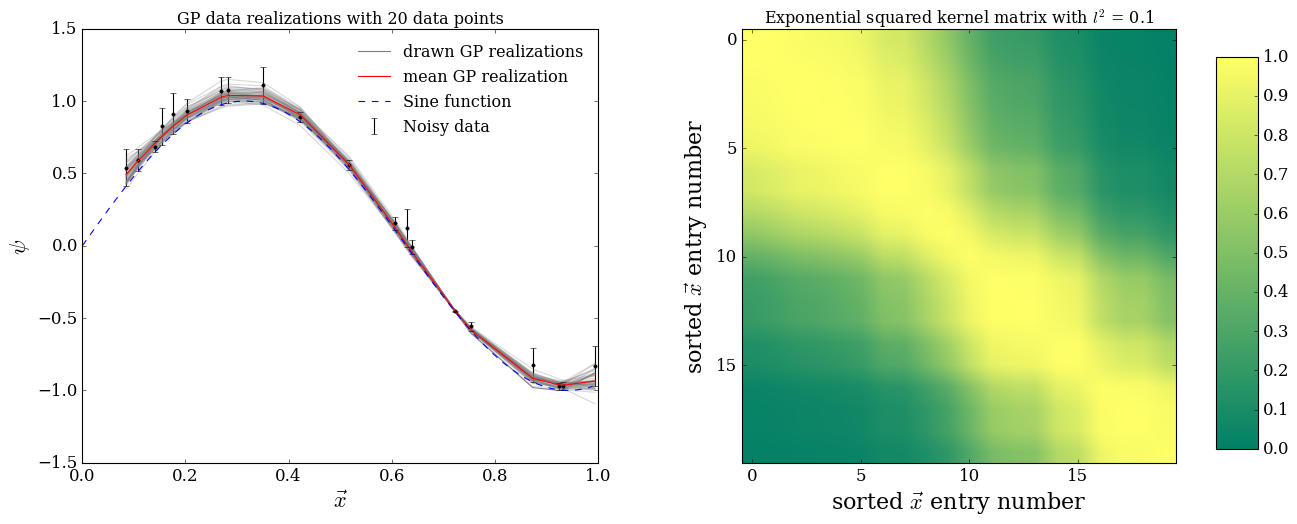
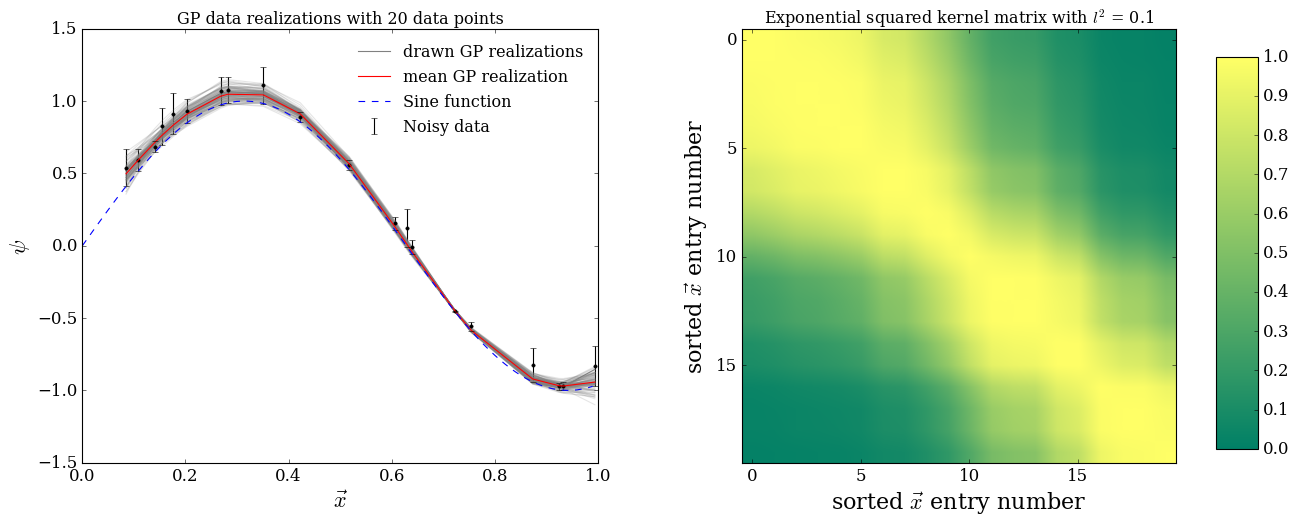
Added parts to the GP chapter.

diff --git a/Chapters/chapter4.tex b/Chapters/chapter4.tex
@@ -208,9 +208,10 @@ i.e. the length of $\mu$ and $\Sigma$ are 2 and $2 \times 2$ respectively.
 However, this is not the case for a GP model of $\xv$. 
 The mean vector function of a GP $m(\xv)$ is of length $\ngal$, 
 whereas the covariance kernel function $\kerngp(\xv, \yv)$
-gives a $\ngal \times \ngal$ matrix as its output for the observed dimensions.
-But the GP covariance kernel function does not limit the dimension of the
-unobserved inputs, thus a GP is said to be of infinite dimension. 
+gives a $\ngal \times \ngal$ matrix as its output.
+Note that the GP covariance kernel function does not restrict the 
+observed length of $\ngal$, and is capable of predicting the values at
+unobserved locations $\xv'$, thus a GP is said to have infinite dimension. 
 In this work, we will refer to the covariance kernel function with one of 
 the following names interchangeably, such as the 
 covariance kernel matrix, the kernel, the covariance
@@ -219,93 +220,118 @@ function or the covariance matrix.
 When the input data $\xv$ is mean subtracted, the covariance function  
 completely specifies the GP.
 Given  $\xv$, we can compute the covariance matrix kernel function. 
-Part of the matrix kernel function is a distance matrix that 
-measures how different or similar the observed quantities 
-are at different spatial coordinates $\xv$ with the covariances. 
-In our case, we are interested in
-modeling the spatial fields of the lensing observables $\lensparams\equiv [\kappa, \gamma_1, \gamma_2]$
-at locations $\xv$. The spatial fields $[\kappa, \gamma_1, \gamma_2]$ 
-are the convergence and the two components of shear.
-One possible distance matrix uses Euclidean distance in the form of $r^2$: 
+Part of the matrix kernel function is a distance matrix. It measures  
+measures how different or similar $\psi$ are at different spatial coordinates $\xv$. 
+% In our case, we are interested in
+% modeling the spatial fields of the lensing observables $\lensparams\equiv 
+% [\kappa, \gamma_1, \gamma_2]$
+% at locations $\xv$. The spatial fields $[\kappa, \gamma_1, \gamma_2]$ 
+% are the convergence and the two components of shear.
+One possible distance {\it matrix} using a diagonal metric is: 
 \begin{equation}
-	r^2 \equiv (\xv - \yv)^T \Matrix{D} (\xv - \yv), 
+	r_{i, j}^2 \equiv (\xv_i - \yv_j) (\xv_i - \yv_j), 
+	\label{eq:distance}
 \end{equation}
-where the metric $\Matrix{D}$ is diagonal. A commonly used covariance kernel 
-is the exponential squared kernel. There are two
+where $i, j$ represent the $n$-th galaxy.
+A commonly used covariance kernel is the exponential squared kernel. There are two
 additional parameters that specify the exponential squared kernel $\kerngp$ 
-which we call $\gpparams = [\lambda, l^2]$.
+which we call $\gpparams = [\lambda, l^2]$. The parameters quantifies how the
+different spatial entries $\psi$ at different distances should relate to one another: 
 \begin{equation}
-	\kerngp(r^2) = \lambda^{-1} \exp\left(\frac{-r^2}{2 l^2}\right).
+	\kerngp(\xv, \yv;\gpparams) = \lambda^{-1} \exp\left(\frac{-r^2}{2 l^2}\right),
 	\label{eqn:exp_sq_kernel}
 \end{equation}
+and gives a covariance {\it matrix}.
+We illustrate how the precision parameter $\lambda$ and the correlation
+length $l^2$ affect the covariance kernel in a simple example. 
+
 % Specifically, the mean vector $m(x)$ is often set to be zero in the
 % GP. The data are usually mean-subtracted before fitting a GP.  
 \begin{figure}
 	\centering
 	\includegraphics[width=0.9\linewidth]{expSq_kernel_demo_lsq_0pt01.png}
-	\includegraphics[width=0.9\linewidth]{expSq_kernel_demo_lsq_0pt3.png}
+	\includegraphics[width=0.9\linewidth]{expSq_kernel_demo_lsq_0pt1.png}
 	\includegraphics[width=0.9\linewidth]{expSq_kernel_demo_lsq_1pt1.png}
 	\caption{
-		Left: An illustration of a GP with a one-dimensional input vector $\xv_\mathds{1}$
+		We show GP models with different correlation lengths (left) and their
+		corresponding kernel (right).
+		Left: An example GP with a one-dimensional input vector $\xv_\mathds{1}$
 		of length 20. The data points (($\psi, \xv_\mathds{1}$); black dots) 
 		are generated from a sine function (blue dashed lines).  
 		We added some Gaussian noise to the data points as indicated by the error bars. 
 		The grey lines indicate the different realizations of
 		the predictions given by the corresponding GP, while the red line indicates the
-		average of all the realizations. 
-		function used to generate the data points 
-		is shown with the dashed line. 
-		The available data points are shown in
-		black. \label{fig:one_d_gaussian_process}}
+		average of all the realizations.  
+		Right: The corresponding exponential squared matrix that is used to model
+		the GP on the left. 
+		\label{fig:one_d_gaussian_process}}
 \end{figure}
 
 
-The precision parameter $\lambda$ affects the 
-amplitude of the density perturbation, while the correlation length (or
-the characteristic length scale) $l^2$ in eq. \ref{eqn:exp_sq_kernel} 
-determines how fast the correlations between different spatial locations of the
-field $\psi$ fall off as a function of the spatial distance. The parameter
-$l^2$ therefore determines how smooth the spatial field $\psi$ is. 
-where $\lambda$ is called the precision and $l^2$ is the characteristic 
-spatial correlation length.
-The predictions of a GP carry the correlation structures that we
-specify in the covariance kernel.
-
-\subsubsection{An example GP with one-dimensional spatial inputs}
+\subsubsection{An example:  interpolating a set one-dimensional spatial inputs
+with a GP}
 We illustrate the properties of an exponential squared covariance kernel
-$\kerngp$ with a set of one-dimensional spatial inputs.
-A set of one-dimensional spatial inputs $\xv_\mathds{1}$ can be thought of a set of 
-2D coordinates along a line. Given $\xv_\mathds{1}$, we can compute $\kerngp$. 
-We can see difference instances of the computed $\kerngp$ with different $l^2$
-values in Fig. \ref{fig:one_d_gaussian_process}.
+$\kerngp$ with a set of one-dimensional spatial inputs. 
+This is visualized in Fig. \ref{fig:one_d_gaussian_process}.
+% A set of one-dimensional spatial inputs $\xv_\mathds{1}$ can be thought of a set of 
+% 2D coordinates along a line.  
+% We show the data that we try to model in Fig. \ref{fig:one_d_gaussian_process}.
+We draw 20 true data points $\psi_0$ (black points) from a Sine function (blue dashed line) at
+$\xv_\mathds{1}$.
+We further add Gaussian noise ${\bf\epsilon}$ to the original data $\psi_0$ as
+indicated by the error bars. 
 
+Given $\xv_\mathds{1}$, we can then compute an exponential squared kernel matrix $\kerngp$ 
+by assuming some $\gpparams$ value.
+As shown by the following {\it definition} of a GP, we can draw different instances of
+$\psi$: 
+\begin{align}
+	[\psi_1, \psi_2, \ldots, \psi_m ]^T &\sim GP(m(\xv),
+	\kerngp(\xv_{\mathds{1}}, \yv_{\mathds{1}}; \gpparams)),\\
+	&\sim \frac{1}{ (2\pi)^{\ngal / 2}\sqrt{ |\kerngp|}}
+	\exp\left( \psi_0^T \kerngp^{-1} \psi_0 \right).\label{eq:GP}
+	% &\sim \frac{1}{\sqrt{2\pi |\kerngp(\xv_{\mathds{1}}, \yv_{\mathds{1}};\gpparams)|}}
+	% \exp\left( \psi_0^T \kerngp(\xv_{\mathds{1}}, \yv_{\mathds{1}};\gpparams) \psi_0 \right)\label{eq:GP}
+\end{align}
+In particular in eq.\ref{eq:GP}, the multiplication of the kernel to
+the training points $\psi_0$ allows the kernel to weight several neighboring
+spatial entries of the vector of $\psi_0$ as a form of smoothing. 
+Recall from eq. \ref{eqn:exp_sq_kernel} that 
+the precision parameter $\lambda$ affects the 
+amplitude of the correlations, while the correlation length (or
+the characteristic length scale) $l^2$ 
+determines how fast the correlations of  $\psi$ 
+fall off across the spatial distance $\xv$. 
+The form of exponential squared function creates noticeable structures in the covariance matrix, i.e. the yellow,
+overlapping squares in the top right panel. 
+Such structures allow each entries in the output vector $\psi$ to be weighted by
+several neighboring spatial entries in $\psi_0$ in eq. \ref{eq:GP}.
 
-% \begin{equation}
-% 	[\psi_1, \psi_2, \ldots, \psi_m ]^T \sim GP(m(\xv),
-% 	\kerngp(\xv, \xv')),
-% 		\label{eq:GP}
-% \end{equation}
-This shows the probabilistic nature of the GP predictions
-(see Fig. \ref{fig:one_d_gaussian_process}).
-Each drawn function represents one realization of the smoothed
-field, which can be used to model the lensing observables derived 
-from the lensing potential $\psi$ later on. 
-By drawing many realizations of $\psi$, we can obtain the
-corresponding credible levels.
-Note that the credible levels are wider for regions with fewer data points to reflect
-the higher uncertainty. A GP is said to have indefinite dimension due to its ability to
-predict values in unobserved regions, even though the 
-observed part of the kernel is of finite size (e.g. $\ngal \times \ngal$ where
-$\ngal$ is the number of source galaxies in our example). 
+As a result of different correlation lengths for smoothing, 
+the predictions fluctuate on specific spatial scales accordingly.
+These realizations are represented by the gray lines in the left column of Fig.
+\ref{fig:one_d_gaussian_process}. From the top row, we can see that 
+the predictions that are drawn from a GP with a small $l^2$ 
+fluctuate on a relatively small scale. Even the averaged prediction over
+different predicted realizations in the top
+left row is not completely smooth. When $l^2$ is increased as we show in the
+middle and bottom left panels, we can notice that the predictions are
+smoother, but the fit worsens as the $l^2$ value gets too big. In general,  
+an optimal set of GP parameters $\gpparams^*$ are found by optimizing the log
+marginal (Gaussian) likelihood of a GP.
 
-By drawing realizations of the relevant GP, we can compute various 
-physical quantities of interest. If the goal is to give the best prediction of a
-mass map, it is possible to average over many drawn realizations of the
-convergence $\kappa$. And we will show an example of this as a demonstration of
-the consistency of our method with other known method for making mass maps.
-Or if the shear statistics are of interest, the relevant 2PCF and the power
-spectrum can be computed from the mean realization 
-after averaging over many realizations of the GP.
+Another noticeable property of a GP is the probabilistic nature of its predictions
+(Fig. \ref{fig:one_d_gaussian_process}).
+We can draw many realizations of the predictions to characterize our uncertainty. 
+We can compute the 68\% credible levels
+by using the minimum and maximum values of 68 out of 100 predictions at each
+$\xv$ location.
+In such a computation, the credible levels are wider for spatial regions 
+with fewer and less certain data points. In the top left panel of Fig.
+\ref{fig:one_d_gaussian_process}, we can see that the gray lines can have
+larger discrepancies at data point locations $\xv$ with larger error bars, while they
+have less discrepancies for data point locations with smaller error bars.
+
 % The probabilistic nature of the GP highlights the main differences of our
 % approach vs past analysis approaches. While past analysis computes summary 
 % statistics, such as the correlation-function to represent the  
@@ -351,10 +377,10 @@ This kernel matrix $\kerngp(r^2)$ only depends on the
 squared magnitude of distances between pairs of galaxy locations. 
 This chosen form is, therefore, invariant
 under translational and rotational transformations.
-The metric $\Matrix{D}$ is taken to be a diagonal matrix in this discussion but  
-can be generalized to account for anamorphic distortions due to the 
-flat sky approximation. Actual astronomical coordinates uses spherical
-coordinates instead of flat, 2D Euclidean coordinates. 
+% The metric $\Matrix{D}$ is taken to be a diagonal matrix in this discussion but  
+% can be generalized to account for anamorphic distortions due to the 
+% flat sky approximation. Actual astronomical coordinates uses spherical
+% coordinates instead of flat, 2D Euclidean coordinates. 
 
 Additionally, the exponential squared kernel is infinitely differentiable. This
 differentiable kernel choice allows us to derive an analytical expression to
@@ -379,6 +405,30 @@ where we have defined the shorthand for the derivatives of the two spatial dimen
 subscripts $h,i,j,k = 1, 2$ after a comma.
 Since the covariance operator is linear, we can interchange the order of
 operation between the covariance operator and the differentiation operators. 
+
+We show how to derive one of the 6  covariance matrices that we can compute
+from $\lensparams = [\kappa, \gamma_1, \gamma_2]$. The computation of the other
+covariance kernels is completely analogous.
+\begin{align*}
+&{\rm Cov}_{m,n} (\kappa(\vec{x}), \kappa(\vec{y}))  \\ 
+&= \mathbb{E} \left[ 
+	(\kappa - \mathbb{E}[\kappa])|_m 
+( \kappa - \mathbb{E}[\kappa])|_n\right] 
+\\
+ &=\mathbb{E}\left[
+\frac{1}{2} \left(\frac{\partial^2}{\partial y_1^2} + 
+\frac{\partial^2}{\partial y_2^2}\right) 
+ (\psi - \mathbb{E}\left[\psi\right])|_n \frac{1}{2}
+\left(\frac{\partial^2}{\partial x_1^2} + \frac{\partial^2}{\partial x_2^2} \right)
+(\psi - \mathbb{E}\left[\psi\right])|_m \right]
+\\
+&= \frac{1}{4}\left(
+\frac{\partial^2}{\partial x_1^2} \frac{\partial^2}{\partial y_1^2} + 
+\frac{\partial^2}{\partial x_1^2} \frac{\partial^2}{\partial y_2^2} +  
+\frac{\partial^2}{\partial x_2^2} \frac{\partial^2}{\partial y_1^2} + 
+\frac{\partial^2}{\partial x_2^2} \frac{\partial^2}{\partial y_2^2}  
+\right) \kerngp_{mn}\\ 
+\end{align*}
 The resulting 4th derivatives of the covariance
 kernels $\kerngp_{\rm GP}$ have the following forms: 
 \begin{align}
@@ -450,7 +500,7 @@ Our implementation of the GP kernels in eq. \ref{eq:kernel_derivatives1} -
 		structures for the training data $\Upsilon = [\kappa, \gamma_1, \gamma_2]$
 		and the interpolated data $\Upsilon' = [\kappa', \gamma_1', \gamma_2']$.
 		The spatial inputs in the example are sorted and taken from a line in the
-		2D space. 
+		2D space $\xv$. 
 		\label{fig:GP_kernel_vis}}
 \end{figure}
 Using a GP instead of a summary statistic also allows us to make predictions. 
@@ -465,7 +515,8 @@ The joint probability density function for the data of a GP is:
 where we use the symbols $(\lensparams', \xv')$ to denote the unobserved set of data,
 and the symbols $(\lensparams, \xv)$ for the existing (training) data.
 We can then represent the kernel matrix in terms of several submatrices 
-(See Fig. \ref{fig:GP_kernel_vis} for an example):
+(See Fig. \ref{fig:GP_kernel_vis} for an example of how we partition our
+covariance matrix):
 \begin{equation}
 	\kerngp_{\rm GP} = \left[\begin{array}{cc}
 	A & B \\
@@ -499,9 +550,10 @@ the observed shear fields $\gamma_{(1, 2)}$ at $\xv$, we can compute $\kerngp_{(
 \kappa)}$ and draw predictions of $\kappa$ from the conditional distribution. 
 Compared with an interpolation method, the mean predictions from a GP are
 often more well behaved and do not show drastic increase or decrease 
-in the tail regions where there is no data. Furthermore, due to the
-probabilistic nature of the GP, we do not have to treat missing 
-data differently. 
+in the tail regions where there is no data. 
+% Furthermore, due to the
+% probabilistic nature of the GP, we do not have to treat missing 
+% data differently. 
 
 \subsection{Making mass maps with a GP}
 \begin{figure}
@@ -521,6 +573,14 @@ data differently.
 		\label{fig:simplified_pgm}}
 \end{figure}
 
+By drawing realizations of the relevant GP, we can compute various 
+physical quantities of interest. If the goal is to give the best prediction of a
+mass map, it is possible to average over many drawn realizations of the
+convergence $\kappa$. And we will show an example of this as a demonstration of
+the consistency of our method with other known method for making mass maps.
+Or if the shear statistics are of interest, the relevant 2PCF and the power
+spectrum can be computed from the mean realization 
+after averaging over many realizations of the GP.
 
 \subsubsection{Inferring the optimal GP parameters}
 Throughout the analyses present in this work, 
@@ -541,8 +601,11 @@ for each galaxy using a composite GP kernel:
 	\label{eq:composite_kernel}
 \end{equation}
 where $\sigma_e^2$ is the variance of the shape noise, and $\sigma_{\rm ms}^2$
-represents the measurement error.
-We can then maximize the log marginal likelihood to find the optimal 
+represents the measurement error. We can just add the kernels because the
+kernels are in the exponential part of the Gaussian function.
+Multiplication of Gaussians result in another Gaussian those covariance matrix
+is a sum of the covariance matrices of original Gaussians. 
+We can then maximize the scalar output of the log marginal likelihood to find the optimal 
 $\gpparams^*$: 
 \begin{equation}
 	\log p(\epsilon_{(1,2)} | \xv) = \frac{-1}{2}\epsilon_{(1,2)}^T \mathsf{S}^{-1}
